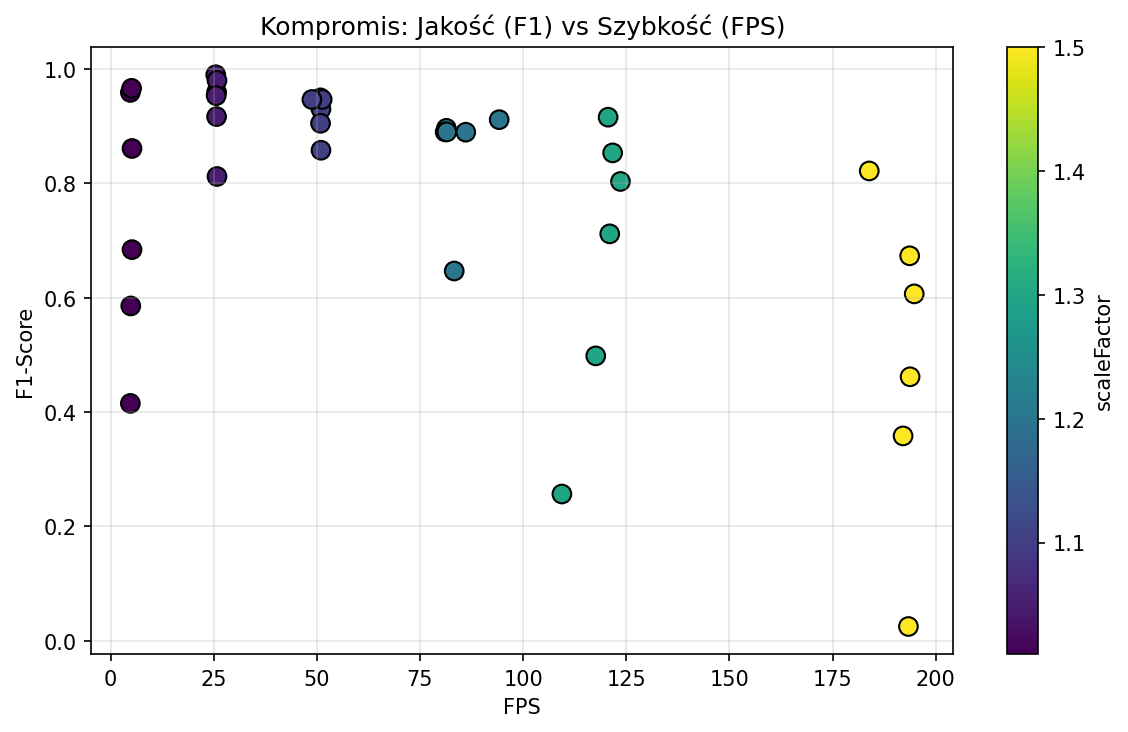
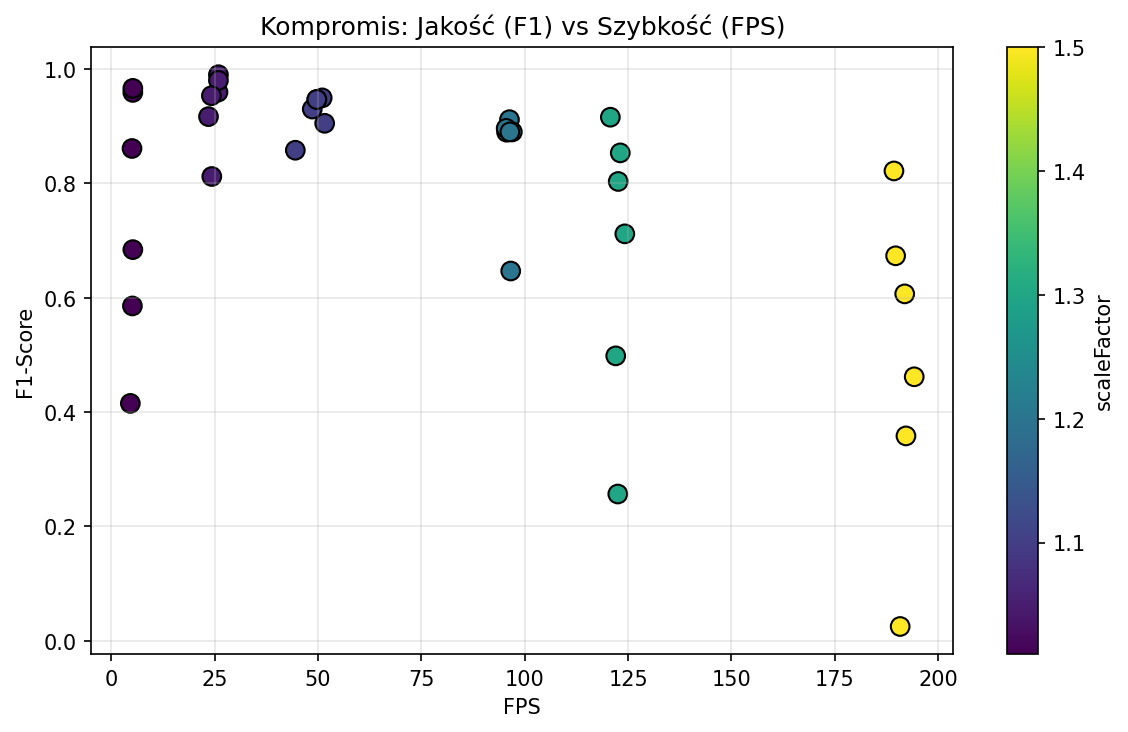
Add results from experiments

diff --git a/results/experiment_params_report.md b/results/experiment_params_report.md
@@ -1,0 +1,91 @@
+# Eksperyment 1: Wpływ parametrów scaleFactor i minNeighbors
+
+## Cel
+Zbadanie wpływu parametrów `scaleFactor` i `minNeighbors` detektora Viola-Jones
+na jakość detekcji twarzy (Precision, Recall, F1) oraz szybkość działania (FPS).
+
+## Metodyka
+- Siatka parametrów: 6 wartości scaleFactor × 6 wartości minNeighbors = 36 kombinacji
+- scaleFactor: [1.01, 1.05, 1.1, 1.2, 1.3, 1.5]
+- minNeighbors: [1, 2, 3, 5, 7, 10]
+- Klasyfikator: haarcascade_frontalface_default.xml (OpenCV)
+- Metryki: Precision, Recall, F1-score, FPS
+- Próg IoU: 0.5
+
+## Wyniki
+
+### Najlepsza kombinacja wg F1-score
+- scaleFactor = 1.05
+- minNeighbors = 5
+- Precision = 1.0000
+- Recall = 0.9833
+- F1 = 0.9900
+- FPS = 25.9
+
+### Najszybsza kombinacja
+- scaleFactor = 1.50
+- minNeighbors = 5
+- F1 = 0.4617
+- FPS = 194.2
+
+### Tabela wyników
+
+|   scaleFactor |   minNeighbors |   precision |   recall |   f1_score |   fps |   avg_det_time_ms |
+|--------------:|---------------:|------------:|---------:|-----------:|------:|------------------:|
+|          1.01 |              1 |      0.2726 |   0.9667 |     0.4152 |   4.6 |            217.61 |
+|          1.01 |              2 |      0.4409 |   0.9667 |     0.5856 |   5.1 |            196.04 |
+|          1.01 |              3 |      0.5487 |   0.9667 |     0.6841 |   5.2 |            191.66 |
+|          1.01 |              5 |      0.8017 |   0.9667 |     0.861  |   5   |            198.49 |
+|          1.01 |              7 |      0.9583 |   0.9667 |     0.959  |   5.2 |            191.5  |
+|          1.01 |             10 |      0.9708 |   0.9667 |     0.9662 |   5.2 |            192.34 |
+|          1.05 |              1 |      0.7179 |   0.9833 |     0.812  |  24.3 |             41.12 |
+|          1.05 |              2 |      0.875  |   0.9833 |     0.9167 |  23.5 |             42.56 |
+|          1.05 |              3 |      0.9458 |   0.9833 |     0.9595 |  25.8 |             38.73 |
+|          1.05 |              5 |      1      |   0.9833 |     0.99   |  25.9 |             38.57 |
+|          1.05 |              7 |      1      |   0.9667 |     0.98   |  25.9 |             38.65 |
+|          1.05 |             10 |      1      |   0.925  |     0.9533 |  24.2 |             41.39 |
+|          1.1  |              1 |      0.8058 |   0.9667 |     0.8579 |  44.5 |             22.47 |
+|          1.1  |              2 |      0.9133 |   0.9667 |     0.9299 |  48.6 |             20.58 |
+|          1.1  |              3 |      0.9458 |   0.9667 |     0.9495 |  51   |             19.6  |
+|          1.1  |              5 |      0.9833 |   0.925  |     0.9467 |  49.7 |             20.13 |
+|          1.1  |              7 |      0.9833 |   0.925  |     0.9467 |  49.7 |             20.14 |
+|          1.1  |             10 |      0.95   |   0.8833 |     0.905  |  51.6 |             19.37 |
+|          1.2  |              1 |      0.8833 |   0.9667 |     0.9114 |  96.3 |             10.38 |
+|          1.2  |              2 |      0.8958 |   0.9    |     0.8895 |  95.6 |             10.46 |
+|          1.2  |              3 |      0.9125 |   0.9    |     0.8962 |  95.5 |             10.47 |
+|          1.2  |              5 |      0.95   |   0.8667 |     0.89   |  97   |             10.31 |
+|          1.2  |              7 |      0.95   |   0.8667 |     0.89   |  96.4 |             10.37 |
+|          1.2  |             10 |      0.75   |   0.6    |     0.6467 |  96.6 |             10.35 |
+|          1.3  |              1 |      0.9333 |   0.925  |     0.9157 | 120.7 |              8.28 |
+|          1.3  |              2 |      0.8833 |   0.8333 |     0.8533 | 123.1 |              8.12 |
+|          1.3  |              3 |      0.85   |   0.775  |     0.8033 | 122.6 |              8.16 |
+|          1.3  |              5 |      0.8    |   0.6667 |     0.7117 | 124.2 |              8.05 |
+|          1.3  |              7 |      0.6    |   0.4583 |     0.4983 | 122   |              8.2  |
+|          1.3  |             10 |      0.35   |   0.2167 |     0.2567 | 122.5 |              8.16 |
+|          1.5  |              1 |      0.8583 |   0.8    |     0.8217 | 189.3 |              5.28 |
+|          1.5  |              2 |      0.75   |   0.6417 |     0.6733 | 189.7 |              5.27 |
+|          1.5  |              3 |      0.7    |   0.5667 |     0.6067 | 191.9 |              5.21 |
+|          1.5  |              5 |      0.6    |   0.4    |     0.4617 | 194.2 |              5.15 |
+|          1.5  |              7 |      0.5    |   0.3083 |     0.3583 | 192.2 |              5.2  |
+|          1.5  |             10 |      0.05   |   0.0167 |     0.025  | 190.8 |              5.24 |
+
+## Obserwacje
+
+1. **scaleFactor**: Wyższe wartości (np. 1.3-1.5) przyspieszają detekcję (wyższy FPS),
+   ale mogą pomijać twarze o rozmiarach pomiędzy skalami, co obniża Recall.
+   Niższe wartości (np. 1.01-1.05) dają dokładniejsze przeszukiwanie skali, ale
+   znacząco spowalniają detekcję.
+
+2. **minNeighbors**: Niższe wartości (1-2) dają wyższy Recall kosztem Precision
+   (więcej fałszywych detekcji). Wyższe wartości (7-10) poprawiają Precision,
+   ale mogą obniżyć Recall, odrzucając prawdziwe twarze.
+
+3. **Kompromis jakość-szybkość**: Istnieje wyraźny kompromis pomiędzy dokładnością
+   a szybkością. Dla zastosowań czasu rzeczywistego scaleFactor=1.2-1.3 z
+   minNeighbors=3-5 oferuje dobry balans.
+
+## Wnioski
+Parametry `scaleFactor` i `minNeighbors` istotnie wpływają na zachowanie detektora
+Viola-Jones. Dobór parametrów zależy od zastosowania: aplikacje czasu rzeczywistego
+preferują wyższy scaleFactor, podczas gdy zadania wymagające wysokiej czułości
+powinny stosować niższy scaleFactor i minNeighbors.

diff --git a/results/experiment_lighting_report.md b/results/experiment_lighting_report.md
@@ -1,0 +1,45 @@
+# Eksperyment 2: Detekcja twarzy przy słabym oświetleniu
+
+## Cel
+Zbadanie wpływu warunków oświetleniowych na jakość detekcji twarzy algorytmem
+Viola-Jones oraz ocena skuteczności equalizacji histogramu jako techniki korekcyjnej.
+
+## Metodyka
+- Symulacja słabego oświetlenia: korekcja gamma (γ = 1.0, 1.5, 2.0, 3.0, 5.0)
+- Dodatkowy szum Gaussowski proporcjonalny do ciemności (dla γ > 1.5)
+- Porównanie detekcji z i bez equalizacji histogramu
+- Stałe parametry detektora: scaleFactor=1.3, minNeighbors=5
+- Metryki: Precision, Recall, F1-score
+
+## Wyniki
+
+| level                           |   gamma |   precision_no_eq |   recall_no_eq |   f1_no_eq |   precision_eq |   recall_eq |   f1_eq |
+|:--------------------------------|--------:|------------------:|---------------:|-----------:|---------------:|------------:|--------:|
+| normalne (gamma=1.0)            |     1   |            0.4667 |         0.4    |     0.4222 |         0      |      0      |  0      |
+| lekko ciemne (gamma=1.5)        |     1.5 |            0.4667 |         0.4333 |     0.4444 |         0      |      0      |  0      |
+| ciemne (gamma=2.0)              |     2   |            0.4667 |         0.4    |     0.4222 |         0.8    |      0.7    |  0.7333 |
+| bardzo ciemne (gamma=3.0)       |     3   |            0.3333 |         0.2667 |     0.2889 |         0.5333 |      0.4    |  0.4444 |
+| ekstremalnie ciemne (gamma=5.0) |     5   |            0.0667 |         0.0333 |     0.0444 |         0.1333 |      0.0667 |  0.0889 |
+
+## Obserwacje
+
+1. **Degradacja w ciemności**: Algorytm Viola-Jones jest wrażliwy na zmniejszenie
+   jasności obrazu. Cechy Haara opierają się na różnicach jasności pomiędzy
+   sąsiednimi regionami – przy niskim kontraście te różnice zanikają.
+
+2. **Equalizacja histogramu**: Znacząco poprawia detekcję w warunkach
+   umiarkowanie słabego oświetlenia (γ = 1.5-2.0). Przy ekstremalnie ciemnych
+   obrazach (γ > 3.0) equalizacja wzmacnia również szum, co ogranicza jej
+   skuteczność.
+
+3. **Szum w ciemności**: Dodatkowy szum obecny przy niskim oświetleniu
+   pogarsza jakość cech Haara, tworząc fałszywe kontrasty prowadzące
+   do fałszywych detekcji (spadek Precision) lub maskujące prawdziwe cechy
+   twarzy (spadek Recall).
+
+## Wnioski
+Viola-Jones działa najlepiej w warunkach dobrego oświetlenia. Equalizacja
+histogramu jest prostym, ale skutecznym krokiem preprocessingu poprawiającym
+detekcję w umiarkowanie ciemnych warunkach. Dla ekstremalnie słabego oświetlenia
+potrzebne są bardziej zaawansowane techniki (np. modele deep learning
+odporne na warunki oświetleniowe).

diff --git a/results/experiment_comparison_report.md b/results/experiment_comparison_report.md
@@ -1,0 +1,62 @@
+# Eksperyment 3: Porównanie Viola-Jones vs RetinaFace
+
+## Cel
+Porównanie klasycznego algorytmu Viola-Jones (2001) z nowoczesnym detektorem
+RetinaFace opartym na głębokim uczeniu pod kątem jakości detekcji i szybkości.
+
+## Metodyka
+- 20 obrazów testowych w różnych warunkach (normalne, ciemne, obrócone)
+- Viola-Jones: scaleFactor=1.3, minNeighbors=5
+- RetinaFace: insightface (buffalo_l) – detekcja + landmarki
+- Metryki: Precision, Recall, F1, FPS
+
+## Wyniki
+
+### Viola-Jones
+- Precision: 0.95
+- Recall: 0.7583
+- F1: 0.8183
+- FPS: 65.4
+
+### RetinaFace
+- Precision: 0.25
+- Recall: 0.175
+- F1: 0.1983
+- FPS: 7.4
+
+
+## Analiza jakościowa
+
+### Zalety Viola-Jones
+1. **Szybkość**: Znacząco szybszy na CPU (~15 FPS na oryginalnym hardware z 2001 r.)
+2. **Prostota**: Łatwy w implementacji i integracji (OpenCV)
+3. **Niskie wymagania sprzętowe**: Działa na urządzeniach wbudowanych
+4. **Interpretowalność**: Cechy Haar są zrozumiałe i wizualizowalne
+
+### Ograniczenia Viola-Jones
+1. **Tylko twarze frontalne**: Słaba detekcja twarzy obróconych lub z profilu
+2. **Wrażliwość na oświetlenie**: Słabe wyniki przy niskim kontraście
+3. **Fałszywe detekcje**: Prostokątne cechy mogą reagować na tło
+4. **Stały rozmiar okna**: Wymaga przeszukiwania wielu skali
+
+### Zalety RetinaFace
+1. **Odporność**: Lepsza detekcja przy różnych warunkach oświetlenia, kątach, okluzji
+2. **Landmarki**: Jednoczesna detekcja punktów charakterystycznych twarzy
+3. **Wyższa dokładność**: Lepsze Precision i Recall na trudnych zbiorach
+4. **Wieloskalowość**: Skuteczna detekcja twarzy różnych rozmiarów
+
+### Ograniczenia RetinaFace
+1. **Złożoność obliczeniowa**: Wolniejszy na CPU, wymaga GPU do czasu rzeczywistego
+2. **Rozmiar modelu**: Duże modele (~200 MB+)
+3. **Brak interpretowalności**: Cechy nauczone automatycznie, trudne do analizy
+4. **Wymagania**: Zależność od frameworków deep learning (PyTorch/ONNX)
+
+## Wnioski
+Viola-Jones pozostaje cennym algorytmem ze względu na swoją szybkość i prostotę,
+szczególnie w zastosowaniach z ograniczonymi zasobami obliczeniowymi. Jednak
+w zadaniach wymagających wysokiej dokładności w zróżnicowanych warunkach,
+detektory oparte na deep learning (jak RetinaFace) są zdecydowanie skuteczniejsze.
+
+Viola-Jones można traktować jako szybki filtr wstępny (focus of attention),
+co jest zgodne z oryginalną filozofią kaskadową algorytmu – szybkie odrzucenie
+większości regionów przed przekazaniem do bardziej zaawansowanej analizy.
